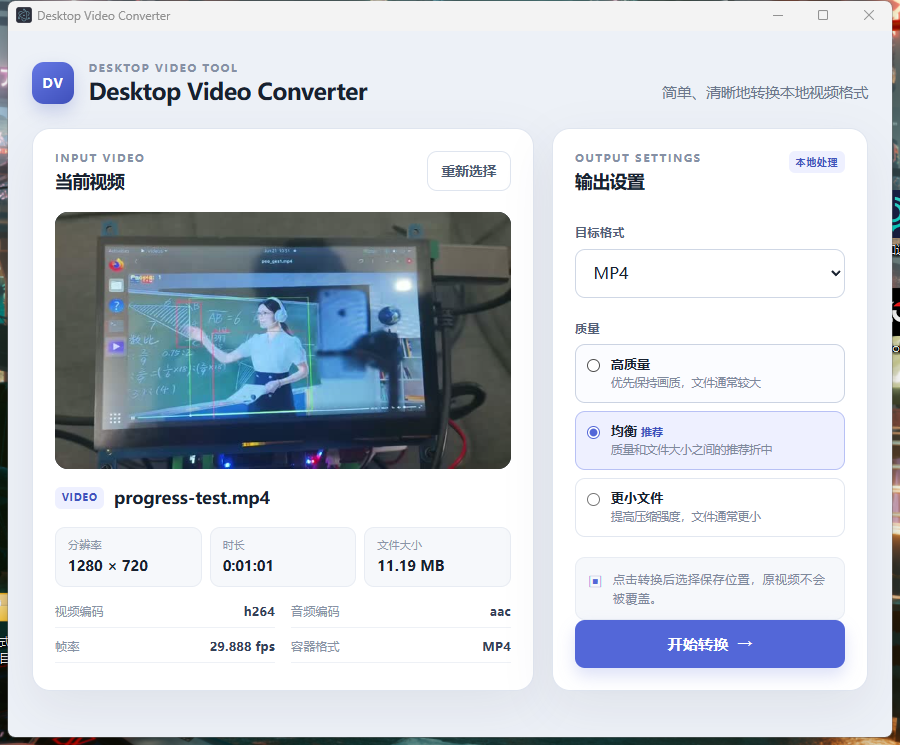
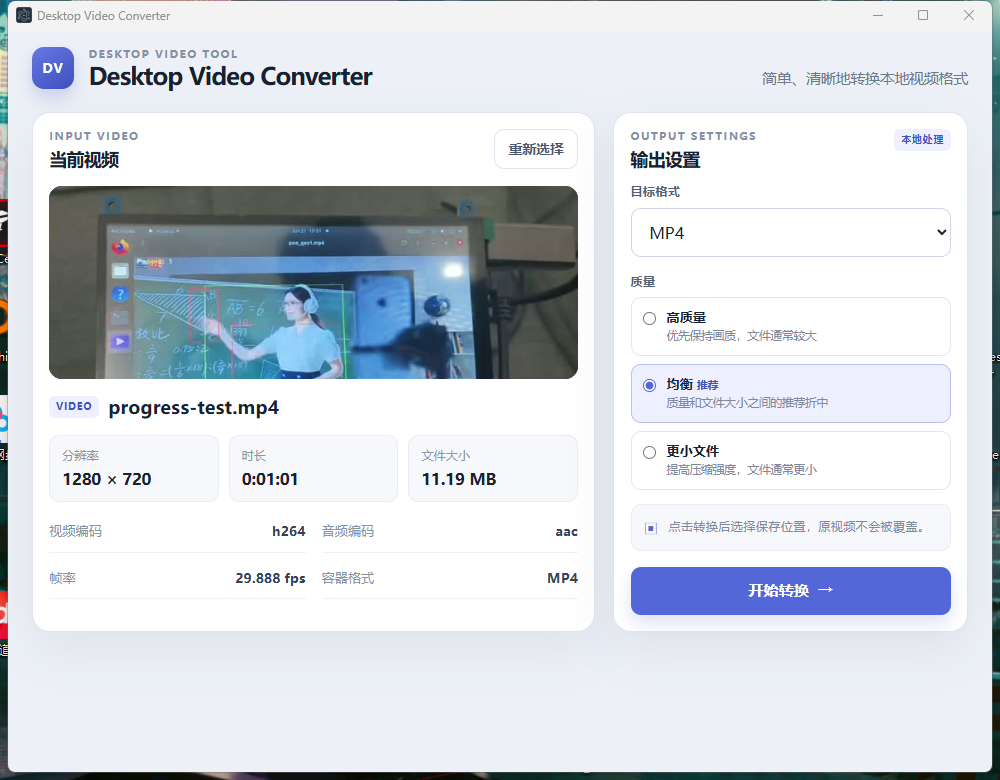
docs: prepare v1.0.1 release

diff --git a/docs/SESSION_SUMMARY.md b/docs/SESSION_SUMMARY.md
@@ -781,3 +781,123 @@ AI coding assistant 主要用于：
 - 工程文档整理。
 
 项目采用 developer-led、AI-assisted 的工程方式推进；AI 输出始终处于明确任务边界、依赖审批、diff review 和人工运行验收之下。
+
+## 21. Post-delivery Usability Review & Product Polish
+
+开发者主动邀请一名未参与开发流程的外部体验者，对已交付版本进行体验。这属于 external usability feedback，不是 formal user study，也不是 large-scale user testing。
+
+### 外部反馈与 UI 产品化优化
+
+外部体验发现部分界面状态下存在不必要滚动，Empty、Loaded 和 Success 状态所需空间不同，固定窗口尺寸不能很好覆盖状态变化。开发者认可该反馈并进行二次产品化优化。该问题不是原 UI 的基本功能错误，而是 internal correctness testing 后由外部体验暴露出的最大正常使用状态布局预算问题。
+
+最终方案包括：
+
+- Empty Mode 与 Working Mode；
+- 首次成功加载视频后只扩展窗口一次；
+- 基于当前 display work area 自适应并进行边界限制；
+- 用户提前手动 resize 时不强制覆盖；
+- compact success/error status；
+- 窄窗口下的响应式和 document scrolling fallback。
+
+当前源码中的窗口 sizing 参数为：
+
+- 初始宽度：`min(1000, floor(workAreaWidth * 0.72))`，并受 work area margin 约束；
+- Empty 高度：`min(550, floor(workAreaHeight * 0.76))`，并受 available height 约束；
+- Working 高度：`min(780, floor(workAreaHeight * 0.92))`，并受 available height 约束；
+- 最小窗口：宽度 `760`、高度 `520`（均不超过实际目标窗口尺寸）；
+- work area margin：每侧 `24px`；
+- Empty → Working 只自动 resize 一次；
+- 用户尺寸与默认 Empty 尺寸偏差不超过 `24px` 时才执行自动扩展。
+
+### 外部反馈与安装包体审计
+
+外部体验者认为安装包对于一个专用转换工具显得较大。开发者没有直接删除功能，而是进行了 package composition audit。审计确认业务 app payload 较小，主要体积来自 Electron runtime、bundled FFmpeg / ffprobe 和 Electron locales。
+
+### Electron locale 优化
+
+正式打包只保留：
+
+- `zh-CN`；
+- `en-US`。
+
+从此前旧 Offline Installer `149,944,621 Bytes / 142.998334 MiB` 到后续实际构建 `143,858,405 Bytes / 137.194066 MiB`，跨这两次实际构建观察到的净变化约为 `6.09 MB`（十进制）、`5.80 MiB`、`4.06%`。此前旧 build 与当前源码版本并非严格 same-source A/B，因此不能将全部变化归因于 locale 删除。
+
+### FFmpeg 体积审计与未实施方案
+
+开发者曾研究进一步裁剪 FFmpeg，当前 binary 实测为：
+
+- `ffmpeg.exe`：`105,423,872 Bytes`；
+- `ffprobe.exe`：`105,221,120 Bytes`；
+- unpacked 合计约 `200.96 MiB`。
+
+custom minimal FFmpeg 会增加 codec 输入兼容风险、Windows build toolchain、回归测试以及 GPL / external library distribution review 成本，因此开发者决定不为了 take-home 包体指标牺牲普通视频兼容性。
+
+System FFmpeg / Lite 方案也评估过但没有实施：它会把 FFmpeg 安装和 PATH 配置成本转嫁给用户，且 Electron / Chromium runtime 仍然较大，不符合默认“给人用”的产品目标。
+
+### NSIS Web Installer 决策
+
+最终采用 Offline Installer + NSIS Web Installer 双分发策略：不删除 FFmpeg、不要求用户安装 FFmpeg、不更换技术栈，使用 electron-builder 原生 `nsis-web`，不新增 downloader 或 npm dependency，并保持同一完整 application payload。Online / Offline 功能一致，Offline Installer 为网络受限环境保留。
+
+最近一次实际 Web 构建结果为：
+
+- Web Installer：`770,261 Bytes / 0.734578 MiB`；
+- application package：`143,365,904 Bytes / 136.724380 MiB`；
+- 相比 Offline Installer 的入口体积减少 `99.464570%`。
+
+Web Installer 优化的是 distribution entry size，不是 installed footprint。对应的固定 release 规划为 `v1.0.1`，预期 payload 为 `desktop-video-converter-1.0.1-x64.nsis.7z`；不使用 `latest/download`，以确保旧 installer 始终匹配自己的 package version。`.nsis.7z` 是 Web Installer backend asset，不面向用户手动安装。
+
+本阶段仅完成 v1.0.1 release preparation：未创建 GitHub Release、未 publish、未 tag、未 commit、未 push。
+
+## 22. Phase 5C：Offline Acceptance & Release Documentation
+
+开发者本人已完成 v1.0.1 Offline Installer 人工回归，测试对象为：
+
+```text
+dist/desktop-video-converter-1.0.1-setup.exe
+```
+
+人工确认通过：installer 安装、桌面快捷方式、应用启动、Empty / Working 窗口、adaptive resize、滚动、compact status、文件选择、metadata、thumbnail、MP4 / WebM conversion、progress、cancel、success、输出播放、bundled FFmpeg 和系统 PATH 独立性。
+
+### 最终截图
+
+开发者已使用最终 v1.0.1 UI 人工更新以下截图，文件名保持不变，README 原有引用路径继续有效：
+
+```text
+docs/screenshots/01-主界面-初始化.png
+docs/screenshots/02-主界面-已选中视频.png
+docs/screenshots/03-视频转换中.png
+docs/screenshots/04-转换成功.png
+docs/screenshots/05-友好错误状态.png
+```
+
+本阶段没有修改、重新生成、压缩或替换 `docs/screenshots/**`。
+
+### 最终 clean Release Candidate
+
+清除旧构建残留后，正式 v1.0.1 RC 产物为：
+
[3 lines of base64/hex data omitted]
+
+Web Installer 是约 `0.7346 MiB` 的 download / installation entry，安装时下载约 `136.73 MiB` 的完整 payload；它不代表应用只有 0.7 MiB，也不减少 installed footprint。Online / Web 与 Offline 功能一致，都内置 FFmpeg / ffprobe，用户无需安装 FFmpeg 或配置 PATH。
+
+固定版本下载策略为：
+
+```text
+https://github.com/LJH1753253/desktop-video-converter/releases/download/v1.0.1/desktop-video-converter-1.0.1-x64.nsis.7z
+```
+
+不使用 `latest/download`，以确保 installer 与自身版本匹配。
+
+### 最终 RC 的包体审计与构建卫生
+
+package composition audit 保留了以下结论：业务 app payload 本身较小，主要体积来自 Electron / Chromium runtime、bundled FFmpeg / ffprobe 和 Electron locales。locale filtering 继续只保留 `zh-CN` 与 `en-US`。
+
+从旧 Offline Installer `149,944,621 Bytes / 142.998334 MiB` 到正式版本 `143,860,452 Bytes / 约 137.196 MiB`，两次实际 build 观察到约 `6.08 MB`（十进制）、`5.80 MiB`、`4.06%` 的净 installer 下降。这不是严格 same-source A/B，不能声称全部变化严格由 locale 删除产生。
+
+当前 FFmpeg binary 仍为：`ffmpeg.exe` `105,423,872 Bytes`、`ffprobe.exe` `105,221,120 Bytes`，合计约 `200.96 MiB` unpacked。进一步裁剪 custom minimal FFmpeg 会增加 codec 兼容性、Windows toolchain、回归测试和许可证审查风险，因此开发者决定不为 take-home 包体指标牺牲普通用户视频兼容性。Lite / System FFmpeg 方案也评估过但未实施，因为会转嫁 FFmpeg 安装和 PATH 配置成本，且 Electron runtime 仍然较大。
+
+发布前 RC 构建还发现仓库内隔离保存的旧 dist backup 可能被 electron-builder 重新计入 application package。这属于 release engineering / build hygiene issue，不是应用运行时 app.asar bug。处理过程包括识别包体异常、停用异常 artifact、隔离旧构建目录、处理旧 `app.asar` 文件锁、恢复预期 Git 状态、清理 dist，并使用正式 npm scripts 重新生成和核验 RC；最终 `app.asar` 稳定为 `2,658,378 Bytes`，FFmpeg 只保留在 bundled resource 路径。
+
+截至本阶段，T63 Offline Installer 人工回归为 Pass；T64 Web 在线安装和 T65 Web Installer 无网络 / 下载失败仍为 Pending，因为 v1.0.1 payload 尚未上传 GitHub Release。尚未 commit、push、tag、创建 Release 或 publish。

diff --git a/docs/TEST_REPORT.md b/docs/TEST_REPORT.md
@@ -898,3 +898,139 @@ Phase 3 中另外执行并通过：
 批量转换不属于当前产品范围，不作为本阶段测试目标。
 
 README 和 5 张应用截图属于交付材料，不作为运行时测试编号；截图来自实际应用运行流程。
+
+## 4. Post-delivery / Phase 5A 自动与构建检查
+
+以下记录属于自动检查、构建或产物检查，不等同于开发者人工 UI 测试。
+
+### T57 Adaptive desktop layout implementation/build verification
+
+测试类型：Automated / source and build inspection。
+
+检查内容：核对 Empty / Working sizing、work area clamp、一次性扩展和手动 resize tolerance 的当前实现，并结合既有 `npm run build` 结果检查构建完整性。
+
+实际结果：窗口 sizing 常量和 IPC 入口与当前产品策略一致，构建通过。
+
+结果：通过。
+
+### T58 Electron locale packaging verification
+
+测试类型：Automated / packaging inspection。
+
+实际结果：`win-unpacked/locales` 仅包含 `en-US.pak` 和 `zh-CN.pak`，未修改业务代码或 FFmpeg 资源。
+
+结果：通过。
+
+### T59 Offline Installer rebuild verification
+
+测试类型：Build inspection。
+
+开发者执行 `npm run build:win`，成功生成：
+
+```text
+dist/desktop-video-converter-1.0.0-setup.exe
+```
+
+实际大小：`143,858,405 Bytes / 137.194066 MiB`。
+
+结果：通过。该记录对应已完成的实际构建，不代表 v1.0.1 安装版人工验收已经完成。
+
+### T60 NSIS Web Installer generation verification
+
+测试类型：Build inspection。
+
+开发者执行 `npm run build:win:web`，成功生成：
+
+```text
+dist/nsis-web/desktop-video-converter-1.0.0-web-setup.exe
+dist/nsis-web/desktop-video-converter-1.0.0-x64.nsis.7z
+```
+
+实际大小分别为：`770,261 Bytes / 0.734578 MiB` 和 `143,365,904 Bytes / 136.724380 MiB`。
+
+结果：通过。构建使用 `--publish never`，没有创建 Release 或上传 artifact。
+
+### T61 Web payload content verification
+
+测试类型：Automated / archive and filesystem inspection。
+
+实际结果：Web payload 中存在 `resources/ffmpeg/ffmpeg.exe`、`resources/ffmpeg/ffprobe.exe`、`resources/app.asar`，Electron locale 仅为 `en-US.pak` 和 `zh-CN.pak`。
+
+结果：通过。
+
+### T62 Offline/Web artifact separation verification
+
+测试类型：Automated / artifact inspection。
+
+实际结果：Offline Installer 保持完整 payload；Web Installer 为小体积下载入口，`.nsis.7z` 为安装阶段下载的 backend payload。两者使用同一应用内容策略，Web Installer 不代表 installed footprint 减少。
+
+结果：通过。
+
+### T63 v1.0.1 Offline Installer manual regression
+
+测试类型：Manual。
+
+测试对象：
+
+```text
+dist/desktop-video-converter-1.0.1-setup.exe
+```
+
+开发者本人实际验证：
+
+- installer 正常启动与安装；
+- 桌面快捷方式正常；
+- 应用正常启动；
+- Empty 初始窗口与首次加载后的 Working 窗口正常；
+- adaptive resize、滚动和 compact status 正常；
+- 文件选择、metadata、thumbnail 正常；
+- MP4 conversion、WebM conversion、progress、cancel、success 正常；
+- 输出文件可以正常播放；
+- 系统 PATH 不依赖 ffmpeg / ffprobe；
+- packaged bundled FFmpeg 正常工作。
+
+结果：通过。
+
+### T64 v1.0.1 Web Installer online installation
+
+测试类型：Manual。
+
+结果：Pending。尚未创建对应 GitHub Release 或执行在线安装。
+
+### T65 Web Installer no-network / download failure behavior
+
+测试类型：Manual。
+
+结果：Pending。尚未进行无网络或 payload 下载失败场景测试。
+
+## 5. v1.0.1 最终 Release Candidate 产物记录
+
+以下为清除旧构建残留后，使用正式 npm scripts 重新生成并核验的 clean build 数据；本节属于构建与产物记录，不替代人工安装测试。
+
+### Offline Installer
+
+```text
+文件：desktop-video-converter-1.0.1-setup.exe
+大小：143,860,452 Bytes
+SHA-256：74625D0CDD23D44CFB330F238BCC5BA1FF43725DE8D2BB1BDE57484BA6237FCB
+```
+
+### Web Installer
+
+```text
+文件：desktop-video-converter-1.0.1-web-setup.exe
+大小：770,269 Bytes
+SHA-256：070A9E31A9D575F5DF5BE8368A605FB4A72DD9767F390E5900151046C35E398A
+```
+
+### Web application package
+
+```text
+文件：desktop-video-converter-1.0.1-x64.nsis.7z
+大小：143,367,781 Bytes
+SHA-256：C568E9532536CE2F0583387A1EB74EF437CF8ABFB96C5FB2271FBA311DEA242A
+```
+
+Web Installer 是约 `0.7346 MiB` 的 download / installation entry，不是完整应用大小。安装时需要下载约 `136.73 MiB` 的 `.nsis.7z` payload；安装后的应用仍包含 Electron runtime、`app.asar`、FFmpeg binary 和其他 application resources。
+
+截至本阶段，v1.0.1 payload 尚未上传 GitHub Release，因此没有执行 Web 在线安装、无网络安装或下载失败测试；没有 commit、push、tag、Release 或 publish。

diff --git a/README.md b/README.md
@@ -111,6 +111,12 @@ npm run build:unpack
 npm run build:win
 ```
 
+生成 Windows NSIS Web Installer：
+
+```bash
+npm run build:win:web
+```
+
 Windows packaged app 使用以下 bundled runtime：
 
 ```text
@@ -128,6 +134,22 @@ resources/ffmpeg/ffprobe.exe
 ```
 
 binary 来源应使用项目记录的 Gyan FFmpeg 9.0.2 essentials build。第三方来源、SHA256、能力验证和许可证信息见 [THIRD_PARTY_NOTICES.md](THIRD_PARTY_NOTICES.md)。项目不包含自动下载脚本。
+
+### Windows 安装
+
+推荐使用 Online Installer：
+
+- 下载入口约 0.7 MiB；
+- 安装过程中需要联网获取完整应用；
+- 安装后的功能与 Offline Installer 完全一致。
+
+网络受限时可使用 Offline Installer：
+
+- 下载体积约 137 MiB；
+- 已包含完整应用 payload；
+- 安装阶段无需再联网获取应用包。
+
+两种安装包都已内置 FFmpeg / ffprobe，用户无需另外安装 FFmpeg，也无需配置系统 `PATH`。约 0.7 MiB 仅指 Online Installer 下载入口，不代表完整应用体积。当前 v1.0.1 release candidate 安装包尚未进行 Authenticode 商业签名，Windows 可能显示 Unknown Publisher 或 SmartScreen 提示。
 
 ## Windows 交付状态
 
